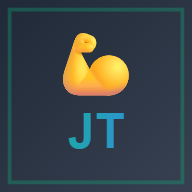
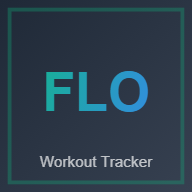
Add files via upload

Changed region(s): [[0.2188, 0.1562, 0.7812, 0.7812], [0.1875, 0.8125, 0.5, 0.875], [0.5312, 0.8125, 0.8125, 0.875]]

diff --git a/index.html b/index.html
@@ -3,7 +3,7 @@
 <head>
     <meta charset="UTF-8">
     <meta name="viewport" content="width=device-width, initial-scale=1.0">
-    <title>Jim Tracker</title>
+    <title>For Lifters Only</title>
     
     <!-- PWA Manifest -->
     <link rel="manifest" href="manifest.json">
@@ -14,7 +14,7 @@
     
     <!-- iOS Specific -->
     <meta name="apple-mobile-web-app-capable" content="yes">
-    <meta name="apple-mobile-web-app-title" content="Jim Tracker">
+    <meta name="apple-mobile-web-app-title" content="For Lifters Only">
     <link rel="apple-touch-icon" href="icon-192.png">
     
     <!-- App Description -->
@@ -613,7 +613,7 @@
 <body>
     <div class="container">
         <div class="header">
-            <h1>💪 Jim Tracker</h1>
+            <h1>For Lifters Only</h1>
         </div>
 
         <div class="week-info">
@@ -644,7 +644,7 @@
 
         <div id="liveSection">
             <div class="timer-toggle" id="timerToggle">
-                <span style="font-weight: 600;">⏱ Rest Timer</span>
+                <span style="font-weight: 600;">Rest Timer</span>
                 <span id="timerPreview">1:00</span>
             </div>
             
